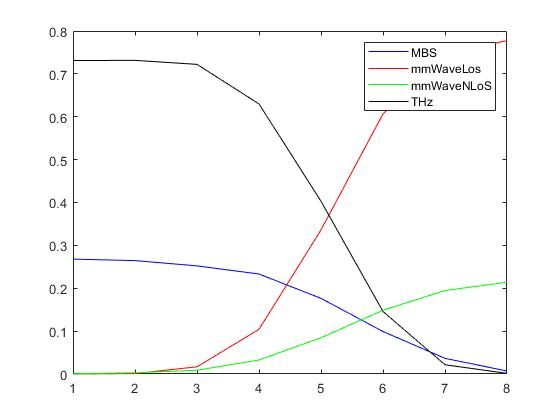
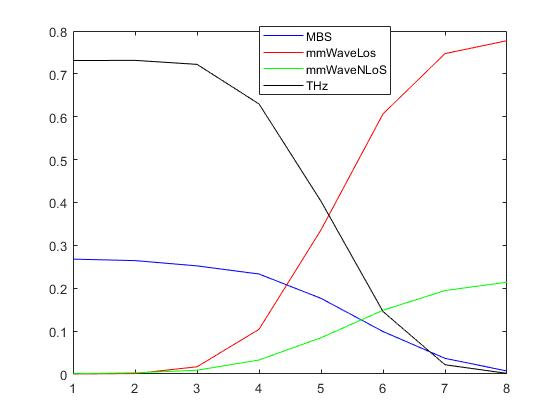
yolo again

Changed region(s): [[0.4554, 0.0619, 0.8804, 0.2786]]

diff --git a/PerformanceAnalysisHetNets/FYP.m b/PerformanceAnalysisHetNets/FYP.m
@@ -2,13 +2,15 @@
 clc; close all; clear;
 
 %% Defining system parametres
-fMBS = 2.4E9; fTHz = 0.3E12; fmmWave = 73E9; % Hz
+fMBS = 2.4E9; fTHz = 0.3E12; fmmWave = 73; % Hz
 bMBS = 20E6; bTHz = 10E9; bmmWave = 2E9; % Hz
 PtMBS = dBmTodB(40); PtTHz = dBmTodB(20); PtmmWave = dBmTodB(30); %dB
 uLoS = 5; uNLoS = 1;
-alphaN = 3.3; alphaL = 2; alpha = 0.5;
+alphaN = 3.3; % mmWaveNLoS Path loss
+alphaL = 2; % mmWaveLoS Path loss
+alpha = 0.5; % UHF Path loss
 p = 32.4 + 20*log10(fmmWave);
-xMax = 1526; yMax = 1526;
+xMax = 1268; yMax = 1268;
 area = xMax*yMax; % sq. metres
 NF = 9; % dB
 K = 200;
@@ -16,8 +18,8 @@ kF = 0.0033; % m^-1
 beta = 3;
 
 % Deployment densities
-lambdaUE = 50; lambdaMBS = 4e-6; lambdaTHz = 30*lambdaMBS; 
-lambdaMM = 50*lambdaMBS;
+lambdaUE = 10; lambdaMBS = 4e-6; lambdaTHz = 40*lambdaMBS; 
+lambdaMM = 20*lambdaMBS;
 %% Deploy the map
 [numBuilds, positionBuilds] = getBuildingCoords('ththr', xMax, yMax);
 % Step - 1: Deploy BS and UE
@@ -38,22 +40,31 @@ fprintf('Calculating Probabilites\n');
 fprintf('MBS: %d\t mmWave: %d\tTHz: %d\n', numStations('MBS'), numStations('mmWave'), numStations('THz'));  
 fprintf('Number of UE: %d\n', numUE);
 %% Simulation
-iterations =500;
+iterations = 300;
+episodes = 8;
 
-biasTHzRange = dBmTodB(linspace(10,50,8));
-biasMMRange = dBmTodB(linspace(150,300,8));
-%receivedPowers = cell(iterations, 3);
-% associationsUser = zeros(iterations, numUE);
+biasTHzRange = dBmTodB(linspace(10,50,episodes));
+biasMMRange = dBmTodB(linspace(10,30,episodes));
+
 associationsTierIter = zeros(iterations, 4);
-associationsTier = zeros(8, 4);
-% maxPowers = zeros(numUE, 3);
-Pr = -130;
+associationsTier = zeros(episodes, 4);
+bandwidthTier = zeros(3, 1);
+SINRReceivedIter = cell(3, 1);
+dataRatesIter = cell(3, 1);
+SINRCoverage = zeros(episodes, 3);
+dataRateCoverage = zeros(episodes, 3);
 
-for j = 1 : 8
-    biasTHz = 0%biasTHzRange(j);
+Pr = -130; % Receiver sensitivity dB (-100 dBm taken from my cellphone's status)
+sinrTr = 1; % Watt;
+drTr = [10^3, 10^4, 10^6];
+
+for j = 1 : episodes
+    biasTHz = biasTHzRange(j);
     biasmmWave = biasMMRange(j);
     for i = 1 : iterations
         fprintf('******Iteration - %d,j - %d******\n', i, j);
+        SINRCoverageIter = cell(3, 1);
+        dataRateCoverageIter = cell(3, 1);
 
         % Step - 3: Calculate PL for each tier.
         fprintf('Calculating Path Losses\n');
@@ -85,6 +96,8 @@ for j = 1 : 8
         L_THz = pathLossSC(L_Spread, L_Absorption);
 
         % Step - 4: Calculate Received powers
+        fprintf('Calculating Received powers\n');
+        
         P_MBS = receivedPowerBiased(PtMBS, 0, nakagami(3, numUE),...
                                     L_MBS, 0);
         P_mmWaveLoS = receivedPowerBiased(PtmmWave, 10, nakagami(4, numUE),...
@@ -94,11 +107,9 @@ for j = 1 : 8
         P_THz = receivedPowerBiased(PtTHz, 10, nakagami(5.2, numUE),...
                                     L_THz, biasTHz);
 
-        %receivedPowers{i, 1} = P_MBS; 
-        %receivedPowers{i, 2} = P_mmWave;
-        %receivedPowers{i, 3} = P_THz;
-
         % Step - 5: Check max received power per tier for each user
+        fprintf('Calculating association matrix for this iteration\n');
+        
         maxPowerMBS = max(P_MBS, [], 2);
         maxPowermmWaveLoS = zeros(numUE, 1);
         maxPowermmWaveNLoS = zeros(numUE, 1);
@@ -114,28 +125,99 @@ for j = 1 : 8
         % Step - 6: Based on the max power among all three tiers, associate
         % users to the best station
         [maxPower, tier] = max(maxPowers, [], 2);
-        tier(maxPower < Pr) = 5;
-        associationsUser{i, :} = tier;
+        % Joining mmWave LoS and NLoS powers
+        tier(tier == 3) = 2; tier(tier == 4) = 3;
+        
+        % All the users with less than the threshold received power are
+        % assigned tier 4 (T1: MBS, T2: mmWave, T3: THz, T4: None)
+        tier(maxPower < Pr) = 4;
+        % associationsUser{i, :} = tier;
         
         % Calculate assoc. percentage per tier for each iteration
-        percentage = sum(associationsUser{i,:}==1)/numUE; % MBS
+        mbsUE = sum(tier==1);
+        percentage = mbsUE/numUE; % MBS
         associationsTierIter(i, 1) = percentage;
-        percentage = sum(associationsUser{i,:}==2)/numUE; % mmWave LoS
+        
+        mmWaveUE = sum(tier==2);
+        percentage = mmWaveUE/numUE; % mmWave LoS/nLoS
         associationsTierIter(i, 2) = percentage;
-        percentage = sum(associationsUser{i,:}==3)/numUE; % mmWave NLoS
+        
+        thzUE = sum(tier==3);
+        percentage = thzUE/numUE; % THz
         associationsTierIter(i, 3) = percentage;
-        percentage = sum(associationsUser{i,:}==4)/numUE; % THz
-        associationsTierIter(i, 4) = percentage;
         clc;
+        
+        % Step - 7: Divide bandwidth
+        bandwidthTier(1,:) = bMBS/mbsUE;
+        bandwidthTier(2,:) = bmmWave/mmWaveUE;
+        bandwidthTier(3,:) = bTHz/thzUE;
+        
+        % Step - 8: Calculate SINR
+        %SINRReceivedIter = zeros(numUE, 1);
+        %dataRatesIter = zeros(numUE, 1);
+        
+        for u = 1 : numUE
+            tierUE = tier(u);
+            if tierUE == 4 % Out of coverage
+                continue;
+            end
+            
+            % Noise
+            noiseReceived = noise(bandwidthTier(tierUE, :), NF);
+            % Powers at all UE except the current one (u)
+            interferences = maxPower([1:u-1, u+1:end]);
+            % Tiers of all UE except the current one
+            tier_ = tier([1:u-1, u+1:end]);
+            % Powers of all the UE except the current UE and having the
+            % same tier.
+            interferences = interferences(tier_ == tierUE);
+            sinrCalc = SINR(maxPower(u),...
+                                      interferences, noiseReceived);
+            SINRReceivedIter{tierUE, :} = [SINRReceivedIter{tierUE,:}; sinrCalc];
+            drCalc = dataRate(1, bandwidthTier(tierUE, :),...
+                                       1, sinrCalc);
+            dataRatesIter{tierUE, :} = [dataRatesIter{tierUE,:}; drCalc]; 
+        end
+        
+        % Calculating SINR and DataRate coverage per tier against
+        % thresholds
+        for tierIdx = 1 : 3
+            sinrTier = SINRReceivedIter{tierIdx, :};
+            SINRCoverageIter{tierIdx, :} = [SINRCoverageIter{tierIdx,:};...
+                              sum(sinrTier > sinrTr)/size(sinrTier,1)];
+            drTier = dataRatesIter{tierIdx, :};
+            dataRateCoverageIter{tierIdx, :} = [dataRateCoverageIter{tierIdx,:};...
+                              sum(drTier > drTr(tierIdx))/size(drTier,1)];
+        end
     end
+    fprintf('Calculating the means over %d iters\n', iterations);
     associationsTier(j, :) = mean(associationsTierIter,1);
+    for tierIdx = 1 : 3
+            sinrTier = SINRCoverageIter{tierIdx, :};
+            SINRCoverage(j, tierIdx) = mean(sinrTier, 1);
+            drTier = dataRateCoverageIter{tierIdx, :};
+            dataRateCoverage(j, tierIdx) = mean(drTier, 1);
+    end
 end
 
 %for p = 1 : 10
     %subplot(10,1,p);
+    figure('Name', 'Assoc');
     plot(1:8, associationsTier(:, 1),'b-',...
          1:8, associationsTier(:, 2),'r-',...
-         1:8, associationsTier(:, 3),'g-',...
-         1:8, associationsTier(:, 4), 'k-')
-     legend(["MBS", "mmWaveLos", "mmWaveNLoS", "THz"]);
+         1:8, associationsTier(:, 3),'g-'...
+         )
+     legend(["MBS", "mmWave", "THz"]);
+     figure('Name', 'SINR Converage');
+     plot(1:8, SINRCoverage(:, 1),'b-',...
+         1:8, SINRCoverage(:, 2),'r-',...
+         1:8, SINRCoverage(:, 3),'g-'...
+         )
+     legend(["MBS", "mmWave" "THz"]);
+     figure('Name', 'DR Coverage');
+     plot(1:8, dataRateCoverage(:, 1),'b-',...
+         1:8, dataRateCoverage(:, 2),'r-',...
+         1:8, dataRateCoverage(:, 3),'g-'...
+         )
+     legend(["MBS", "mmWave", "THz"]);
 %end

diff --git a/PerformanceAnalysisHetNets/pathLossSCAbsorbtion.m b/PerformanceAnalysisHetNets/pathLossSCAbsorbtion.m
@@ -3,7 +3,7 @@ numUE = size(d, 1);
 pathLossSCAbsorbtion = cell(numUE, 1);
 
 for i = 1 : numUE
-    pathLossSCAbsorbtion{i} = 10.*log10(exp(0.0033*d{i}));
+    pathLossSCAbsorbtion{i} = 0.0033.*d{i}.*10.*log10(exp(1));
 end
 end
 

diff --git a/PerformanceAnalysisHetNets/pathLossSCSpread.m b/PerformanceAnalysisHetNets/pathLossSCSpread.m
@@ -3,7 +3,7 @@ c=3*10^8;
 numUE = size(d, 1);
 pathLossSCSpread = cell(numUE, 1);
 for i = 1 : numUE
-    pathLossSCSpread{i} = 10*log10((4*pi*freq*d{i})/c);
+    pathLossSCSpread{i} = 20*log10((4*pi*freq*d{i})/c);
 end
 end
 

diff --git a/PerformanceAnalysisHetNets/dataRate.m b/PerformanceAnalysisHetNets/dataRate.m
@@ -1,4 +1,4 @@
 function [rate] = dataRate(alpha, bandwidth, users, SINR)
-k = (alpha*bandwidth)/users;
-rate = k.*log2(1.+SINR);
+%k = (1*bandwidth)/users;
+rate = bandwidth.*log2(1+SINR);
 end

diff --git a/PerformanceAnalysisHetNets/pathLossmmWave.m b/PerformanceAnalysisHetNets/pathLossmmWave.m
@@ -6,6 +6,7 @@ numUE = size(distance, 1);
 PL = cell(numUE, 1);
 for i = 1 : numUE
     PL{i} = p + 10.*alpha.*log10(distance{i}) + shadow(i);
+    
 end
 end
 

diff --git a/PerformanceAnalysisHetNets/plotEquipment.m b/PerformanceAnalysisHetNets/plotEquipment.m
@@ -42,6 +42,6 @@ else
 %     legend(keys);
 end
 
-hold off
+hold on
 end
 
